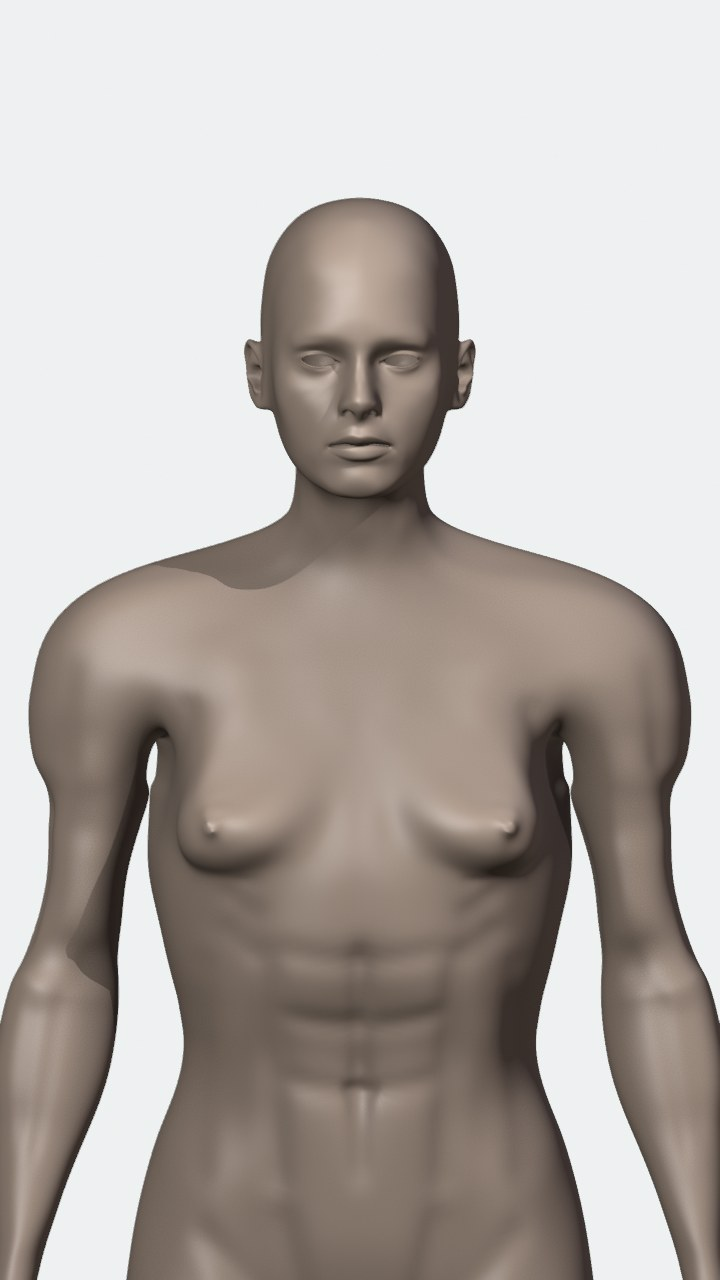
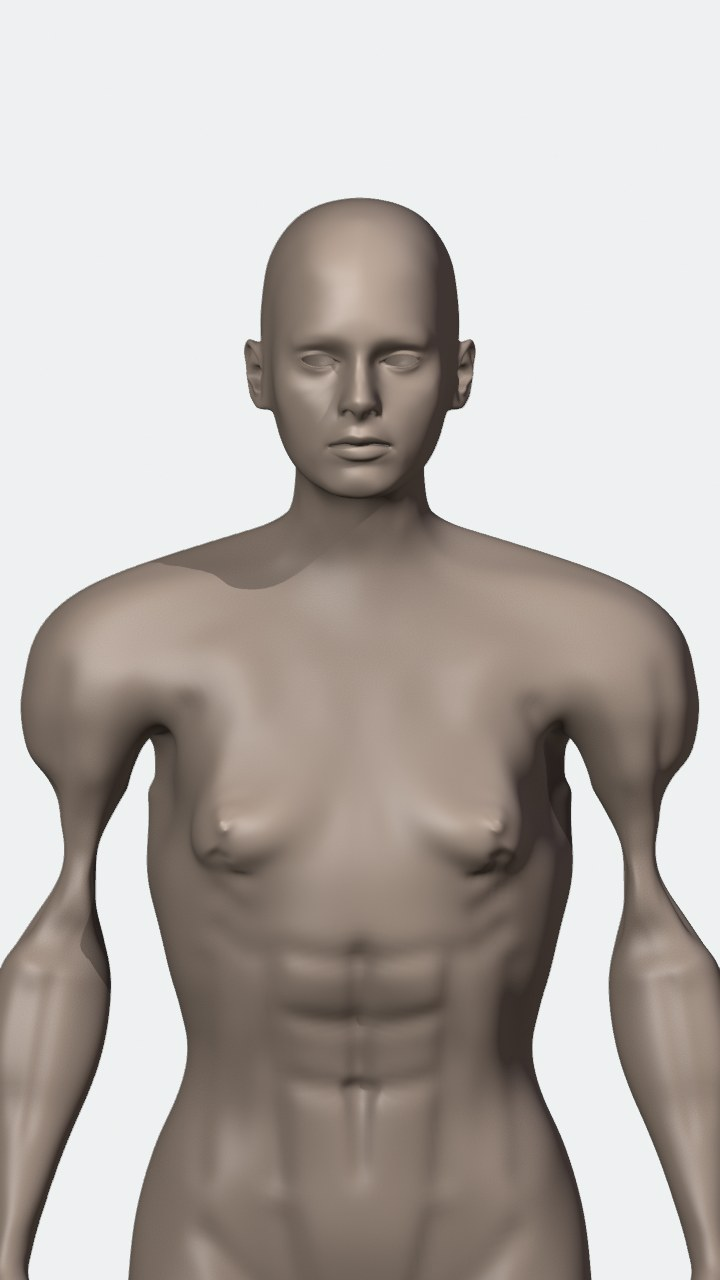
Option 5 MPFB v7, male and female: guide measurements fixed (shoulders, inseam, bust, upper arm), stronger female definition; renders, params
Experimental references only; not approved, not production.

Claude-Session: https://claude.ai/code/session_01EPKohHG29Xe8qKuNMT5Fv9

diff --git a/review-assets/body_v2/mpfb_option5_20261103/README.md b/review-assets/body_v2/mpfb_option5_20261103/README.md
@@ -11,41 +11,48 @@
   - add `V2_ARMS_OUT=30` for the arms-out views.
 - **Measurements:** `scripts/mpfb_experimental/measure_guide.py`, stand pose. Circumferences are convex-hull slices, which approximate a tape measure, so they read slightly high over concave areas. Limb circumferences are measured perpendicular to the bone (left side). Biacromial is approximated from the rig's clavicle ends.
 
-## Male (target height 1.82 m)
+
+## Male v7 (target height 1.82 m)
 
 | Guide | Target (cm) | Model (cm) | |
 |---|---|---|---|
-| Height | 180-184 | 182.6 | in range |
-| Shoulder width (biacromial, approx.) | 45-49 | 44.3 | low |
-| Chest circumference | 100-108 | 109.1 | high |
-| Waist circumference | 78-84 | 84.0 | in range |
-| Hip circumference | 96-102 | 98.9 | in range |
-| Upper arm circumference | 33-37 | 36.3 | in range |
-| Thigh circumference | 56-61 | 59.3 | in range |
-| Calf circumference | 37-40 | 39.6 | in range |
-| Inseam (crotch to floor) | 82-86 | 89.0 | high |
-| Shoulder : hip (biacromial / hip breadth) | 1.20-1.30 | 1.145 | low |
+| Height | 180-184 | 182.7 | in range |
+| Shoulder width (biacromial, approx.) | 45-49 | 46.0 | in range |
+| Chest circumference | 100-108 | 109.5 | high |
+| Waist circumference | 78-84 | 81.5 | in range |
+| Hip circumference | 96-102 | 102.1 | high |
+| Upper arm circumference | 33-37 | 36.4 | in range |
+| Thigh circumference | 56-61 | 61.0 | in range |
+| Calf circumference | 37-40 | 40.1 | high |
+| Inseam (crotch to floor) | 82-86 | 86.2 | high |
+| Shoulder : hip (biacromial / hip breadth) | 1.20-1.30 | 1.156 | low |
 
-## Female (target height 1.68 m)
+## Female v7 (target height 1.68 m)
 
 | Guide | Target (cm) | Model (cm) | |
 |---|---|---|---|
 | Height | 165-170 | 168.2 | in range |
-| Shoulder width (biacromial, approx.) | 36-39 | 35.8 | low |
-| Bust circumference | 86-92 | 94.8 | high |
-| Underbust circumference | 72-78 | 72.1 | in range |
-| Waist circumference | 64-70 | 69.7 | in range |
-| Hip circumference | 90-96 | 94.4 | in range |
-| Upper arm circumference | 26-29 | 29.5 | high |
-| Thigh circumference | 52-56 | 54.4 | in range |
-| Calf circumference | 34-36 | 36.4 | high |
+| Shoulder width (biacromial, approx.) | 36-39 | 37.4 | in range |
+| Bust circumference | 86-92 | 91.0 | in range |
+| Underbust circumference | 72-78 | 71.2 | low |
+| Waist circumference | 64-70 | 68.2 | in range |
+| Hip circumference | 90-96 | 93.9 | in range |
+| Upper arm circumference | 26-29 | 27.4 | in range |
+| Thigh circumference | 52-56 | 55.2 | in range |
+| Calf circumference | 34-36 | 34.6 | in range |
 | Inseam (crotch to floor) | 77-79 | 78.7 | in range |
-| Shoulder : hip (biacromial / hip breadth) | 0.95-1.00 | 0.989 | in range |
+| Shoulder : hip (biacromial / hip breadth) | 0.95-1.00 | 1.03 | high |
 
 ## Notes
 
-- **Male inseam:** high because MPFB's own leg proportions are long. A production model fitted to the canonical skeleton takes its limb lengths from that skeleton.
-- **Biacromial:** an approximation from MPFB's clavicle bones, so it is low-confidence.
-- **Female definition:** the relief pass is the male one with the pectoral features off, at a lower strength. Female-specific definition is still to come.
+- **v7 against v3:**
+  - male shoulder width 44 → 46 cm (in range); inseam 89 → 86.2 cm (shorter legs);
+  - female bust 95 → 91 cm (breast-size control 0.3); upper arm 30 → 27 cm; shoulder width 35.8 → 37.4 cm (in range);
+  - female muscle raised and definition 1.6 → 2.1.
+- **Still slightly out:**
+  - male chest about 1.5 cm high and hip about 0.1 cm high;
+  - female underbust 0.8 cm low (it did not respond to MPFB's underbust control).
+- **Shoulder-to-hip ratios (biacromial ÷ hip breadth):** male 1.16 (target 1.20–1.30), female 1.03 (target 0.95–1.00). Both depend on the biacromial approximation (rig clavicle ends) and the hip-breadth slice, so they are low-confidence.
+- **Male inseam:** MPFB's leg lengths are shortened here. A production model takes its limb lengths from the canonical skeleton.
+- **Female definition:** the generic pass with the pectoral features off. Female-specific detail is still to come.
 - **Approval:** both await owner review.
-
